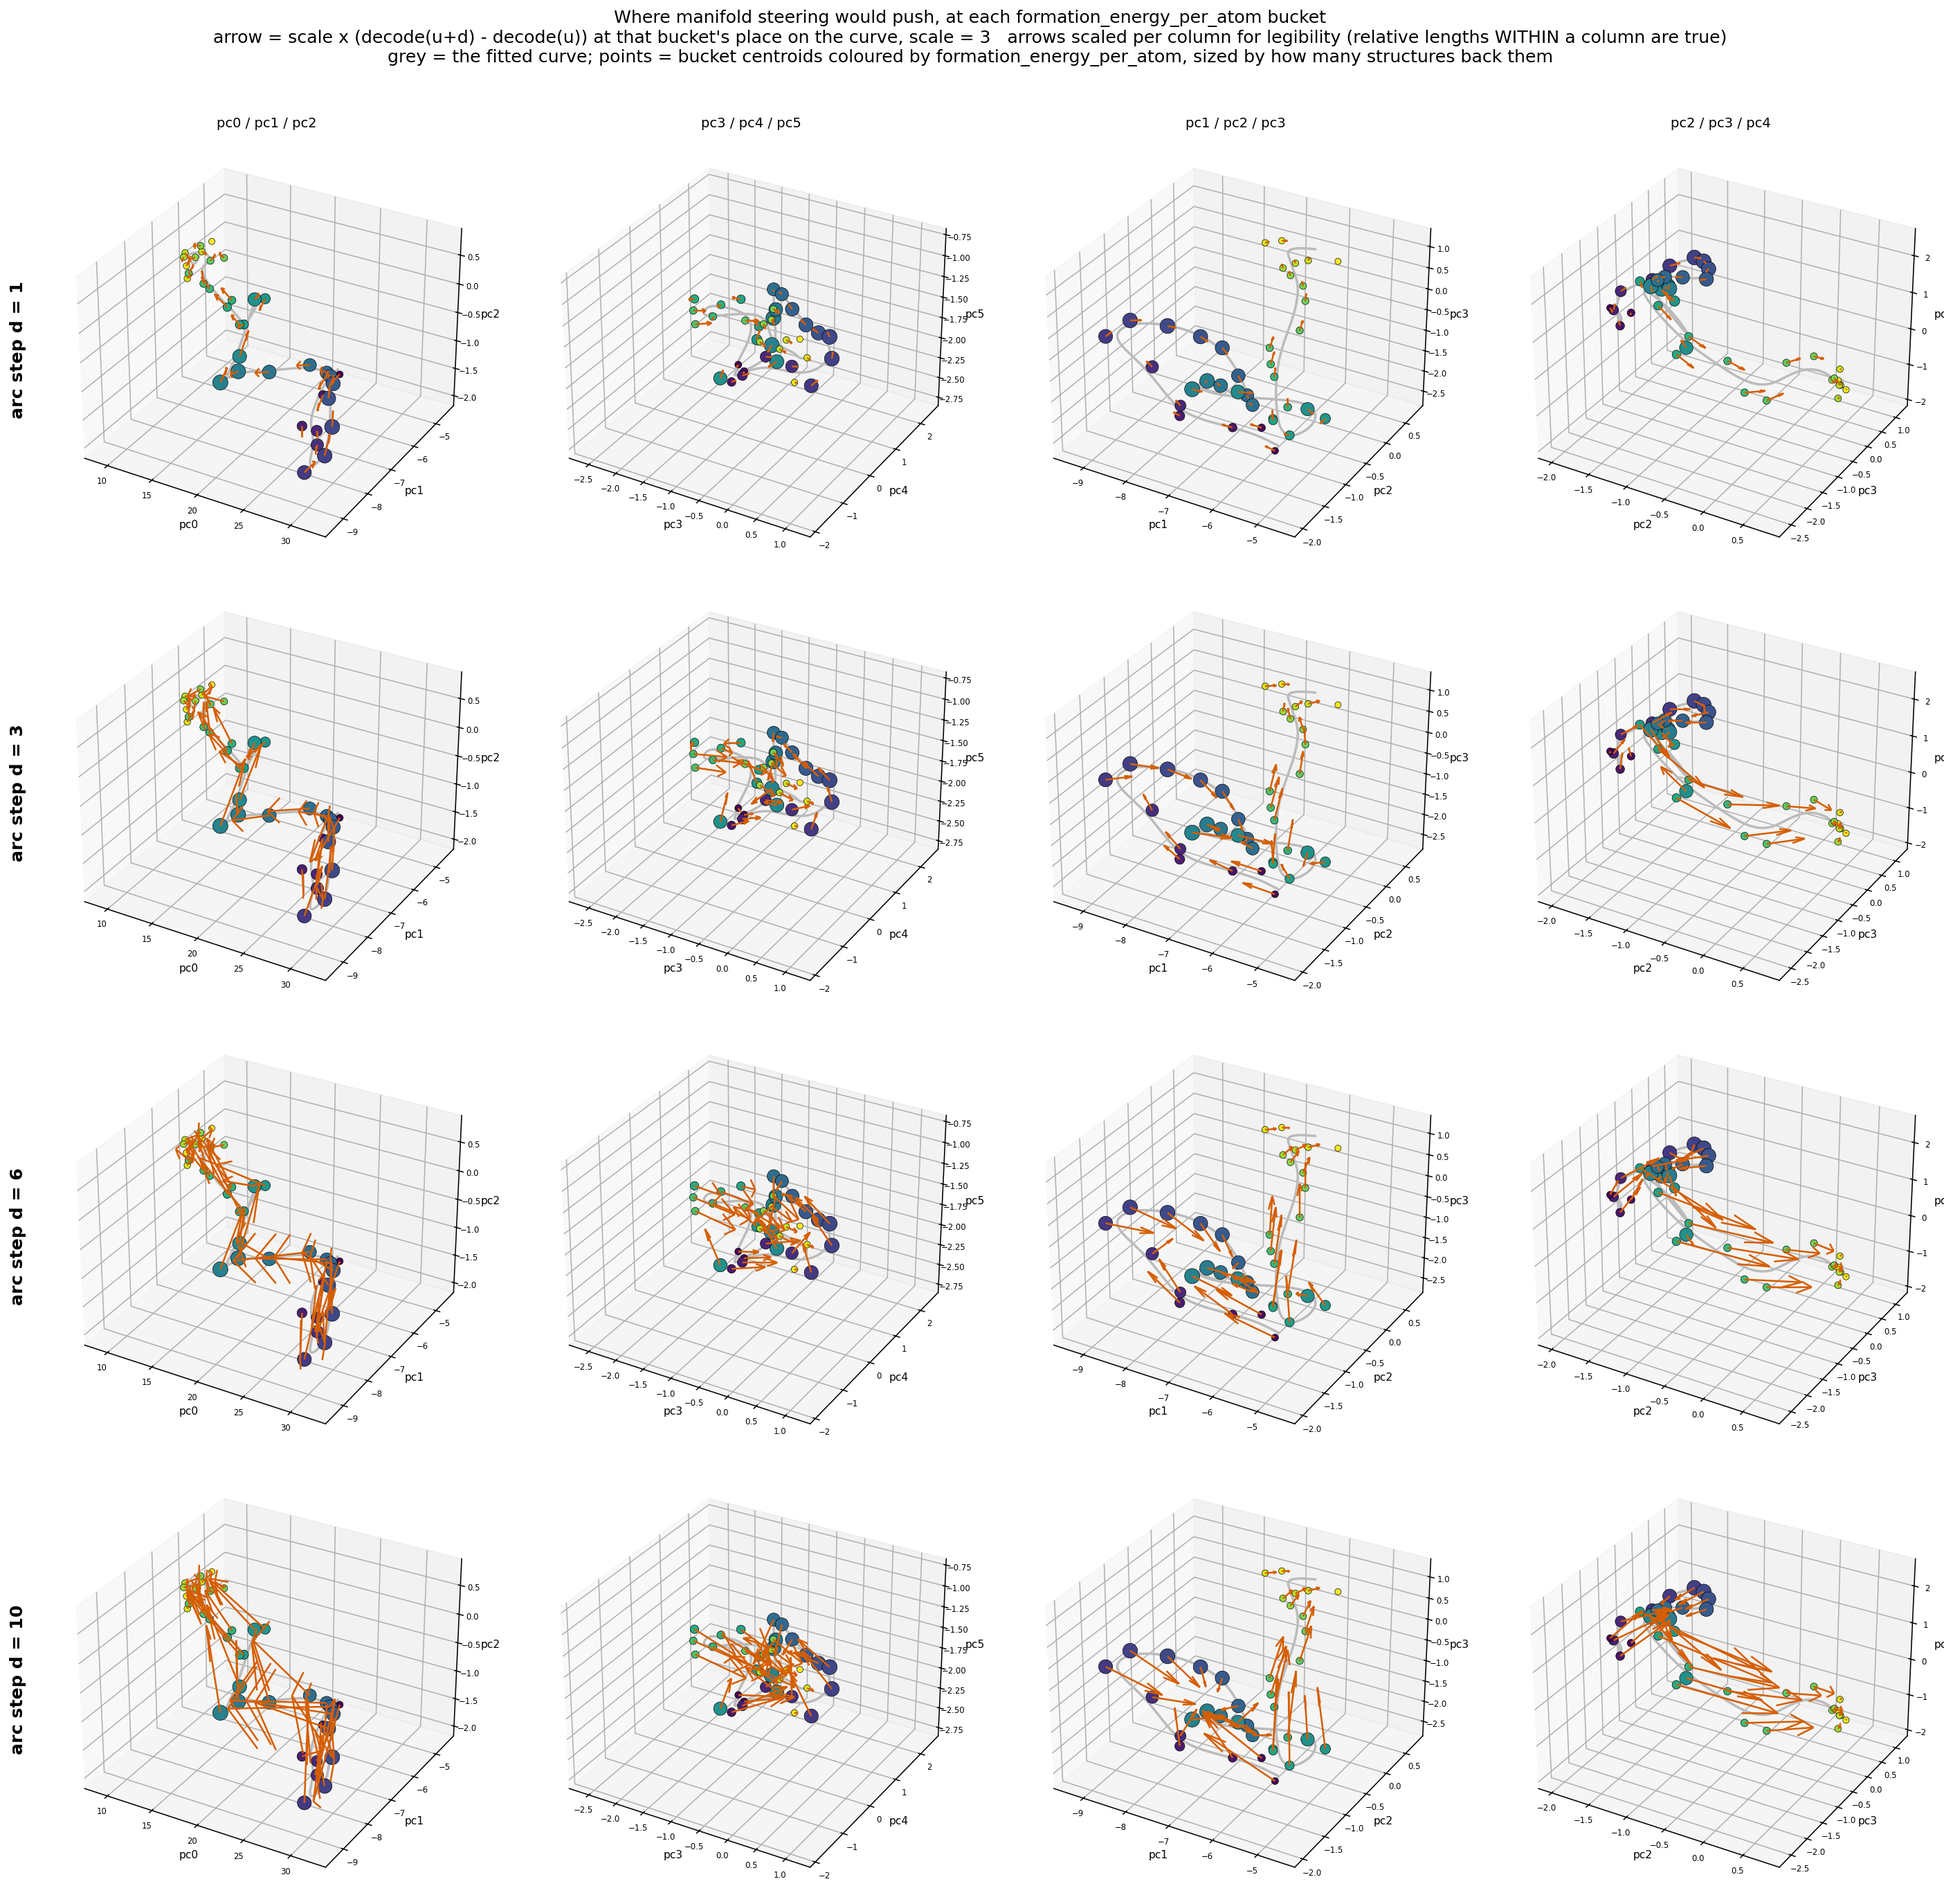
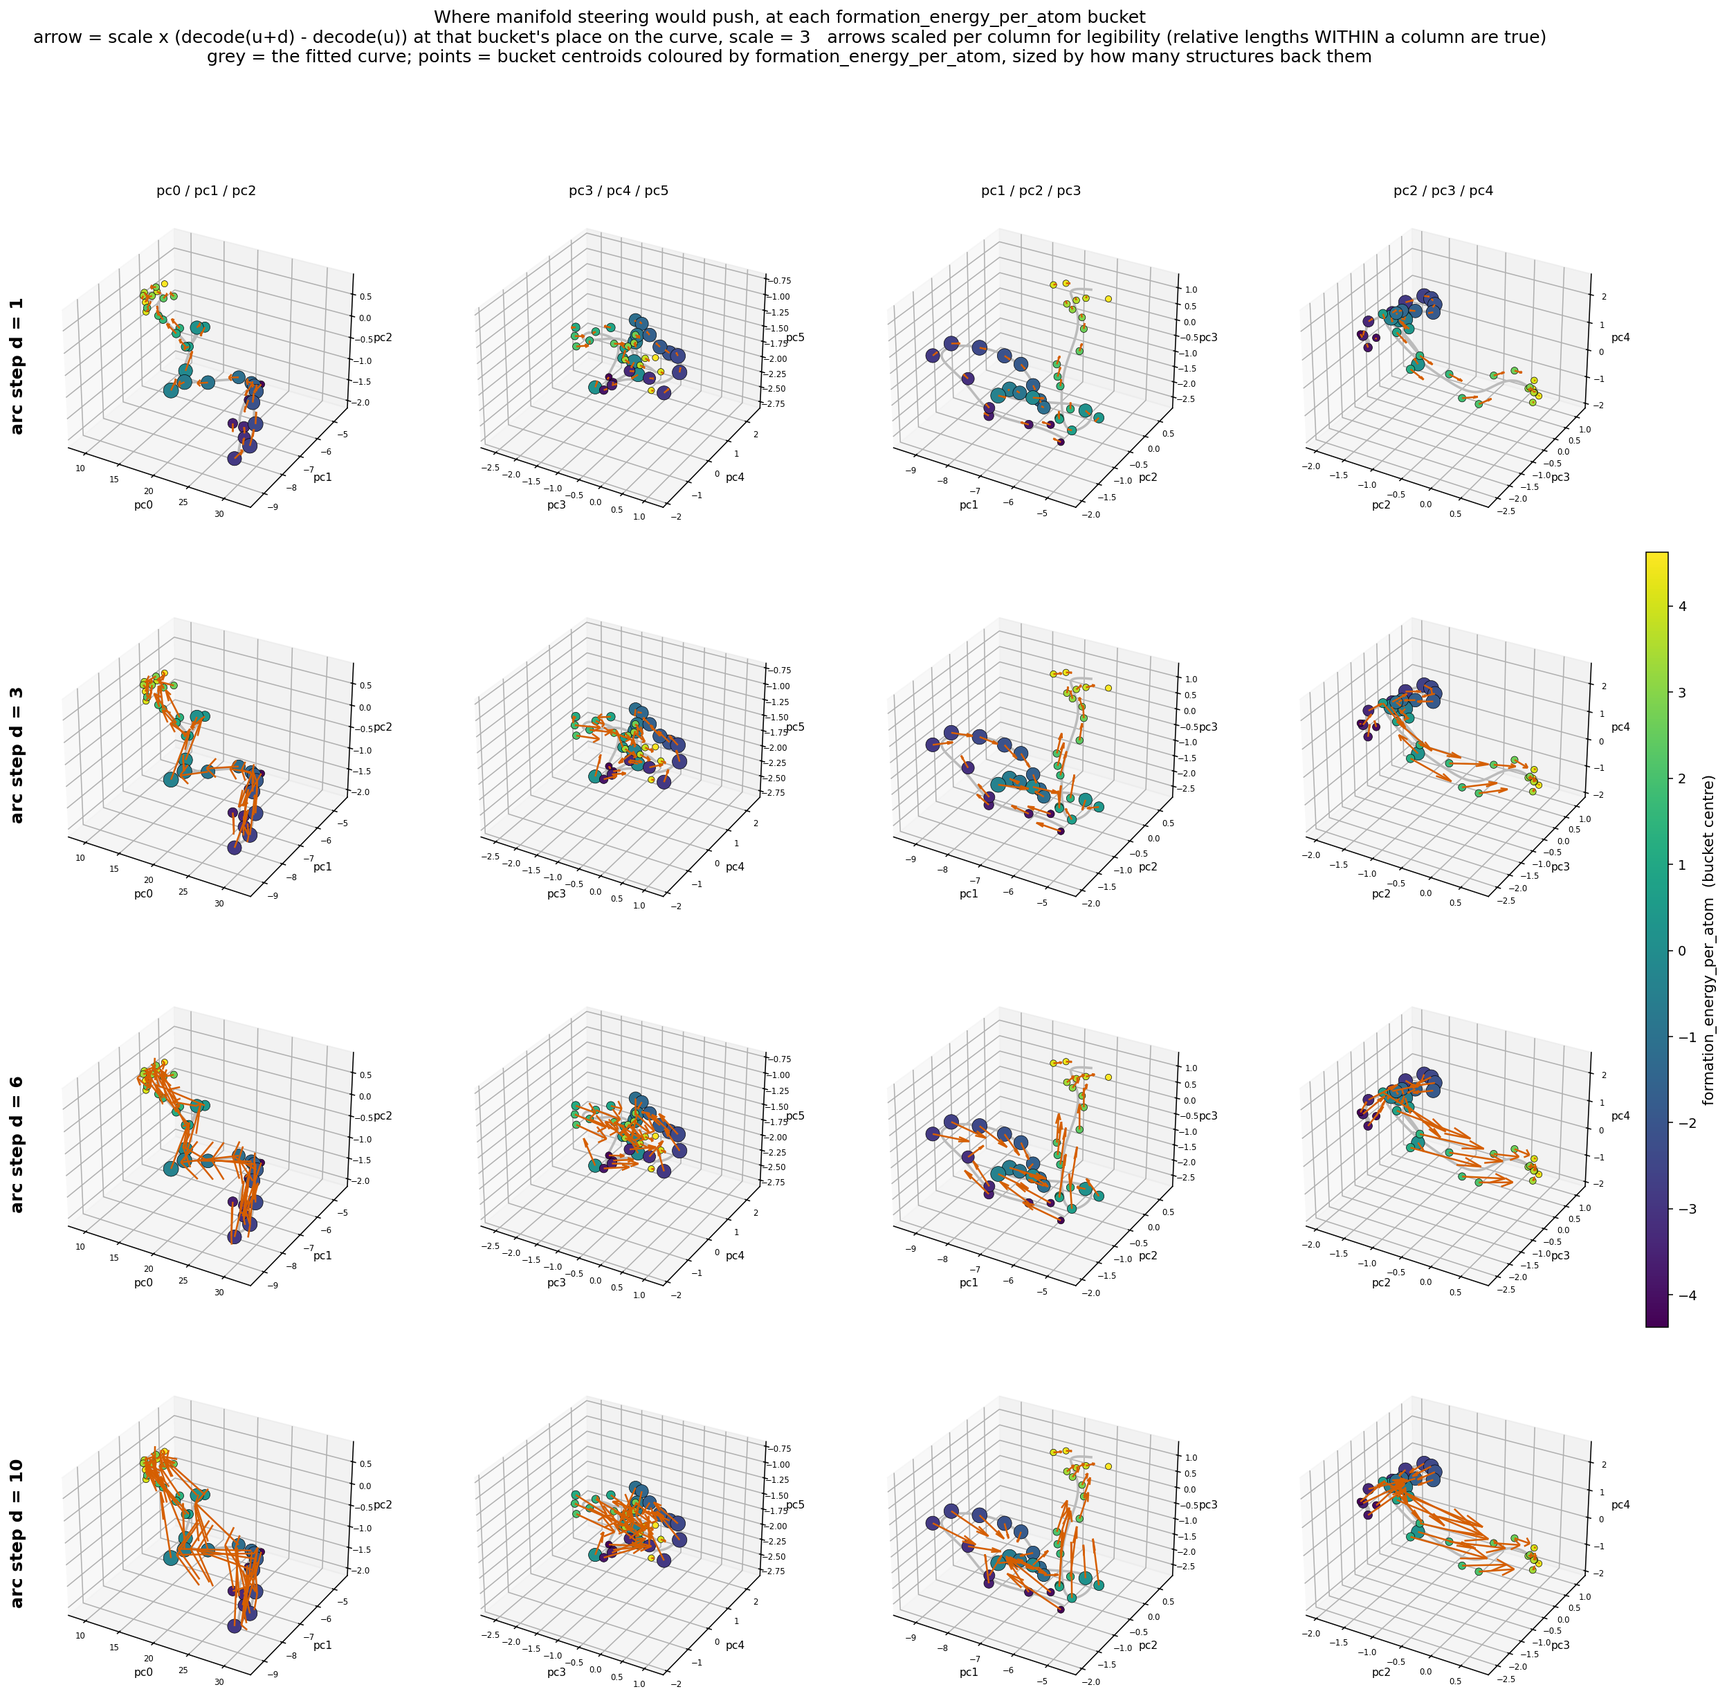
Add a colour key to the manifold overlay and steering-field plots
Both coloured points by property with no scale, so the viridis ramp was
decorative -- nothing said which end of the curve was which value.

The bar needs its own axis: fig.colorbar(ax=fig.axes) on a 2x2 grid of 3-D axes
drops it in the MIDDLE of the figure, on top of the panels. tight_layout also
fights a manually placed cax, so it is dropped where one is used.

centroid_pca_plots.py already had a correct colorbar and is unchanged.

Claude-Session: https://claude.ai/code/session_01EpX8vDJ69TxFi8fcSiWVWg

diff --git a/scripts/plots/plot_manifold_overlay.py b/scripts/plots/plot_manifold_overlay.py
@@ -82,6 +82,18 @@ def main():
         ax.set_title(f"pc{a} / pc{b} / pc{d3}", fontsize=11)
     axes[0][0].legend(loc="upper left", fontsize=9)
 
+    # A key for the colour. Without it the viridis ramp is decorative -- the reader
+    # cannot tell which end of the curve is which property value.
+    # Its own axis on the right. Passing ax=fig.axes with a 2x2 grid of 3-D axes puts
+    # the bar in the MIDDLE of the figure, on top of the panels.
+    fig.subplots_adjust(right=0.90)
+    cax = fig.add_axes([0.92, 0.25, 0.015, 0.5])
+    cb = fig.colorbar(plt.cm.ScalarMappable(
+        cmap="viridis",
+        norm=plt.Normalize(float(c.bucket_lo[inside].min()),
+                           float(c.bucket_lo[inside].max()))), cax=cax)
+    cb.set_label(f"{args.property}  (bucket lower edge, width {args.width:g})")
+
     # how far is each in-range centroid from the curve it was fitted to?
     dist = np.linalg.norm(P[inside][:, None, :len(pcs)] -
                           curve[None, :, :len(pcs)], axis=2).min(axis=1)
@@ -94,7 +106,6 @@ def main():
         f"max {dist.max():.3f}, over a curve spanning "
         f"{np.linalg.norm(curve[-1] - curve[0]):.1f} end to end",
         fontsize=12)
-    fig.tight_layout()
     # land beside the centroids that were plotted, whatever tree they came from
     out = cen_path.with_name(cen_path.stem + "_with_manifold.png")
     fig.savefig(out, dpi=140, bbox_inches="tight", facecolor="white")

diff --git a/scripts/plots/plot_manifold_steering_field.py b/scripts/plots/plot_manifold_steering_field.py
@@ -142,6 +142,15 @@ def main():
             if ri == 0:
                 ax.set_title(f"pc{a} / pc{b} / pc{e}", fontsize=10)
 
+    # A key for the colour, so the reader can tell which end of the curve is which
+    # property value rather than reading the ramp as decoration.
+    # Its own axis on the right -- ax=fig.axes drops it on top of the panels.
+    fig.subplots_adjust(right=0.91)
+    cax = fig.add_axes([0.925, 0.3, 0.011, 0.4])
+    cb = fig.colorbar(plt.cm.ScalarMappable(
+        cmap="viridis", norm=plt.Normalize(centres.min(), centres.max())), cax=cax)
+    cb.set_label(f"{prop_label}  (bucket centre)", fontsize=11)
+
     extra = (f"   arrows scaled per column for legibility (relative lengths WITHIN a "
              f"column are true)")
     fig.suptitle(
@@ -151,7 +160,7 @@ def main():
         f"grey = the fitted curve; points = bucket centroids coloured by {prop_label}, "
         f"sized by how many structures back them",
         fontsize=13)
-    fig.tight_layout(rect=[0.01, 0, 1, 0.97])
+
     out = Path(args.out or Path(args.centroids).with_name(
         Path(args.centroids).stem + f"_steering_field_s{args.scale:g}.png"))
     fig.savefig(out, dpi=140, bbox_inches="tight", facecolor="white")
